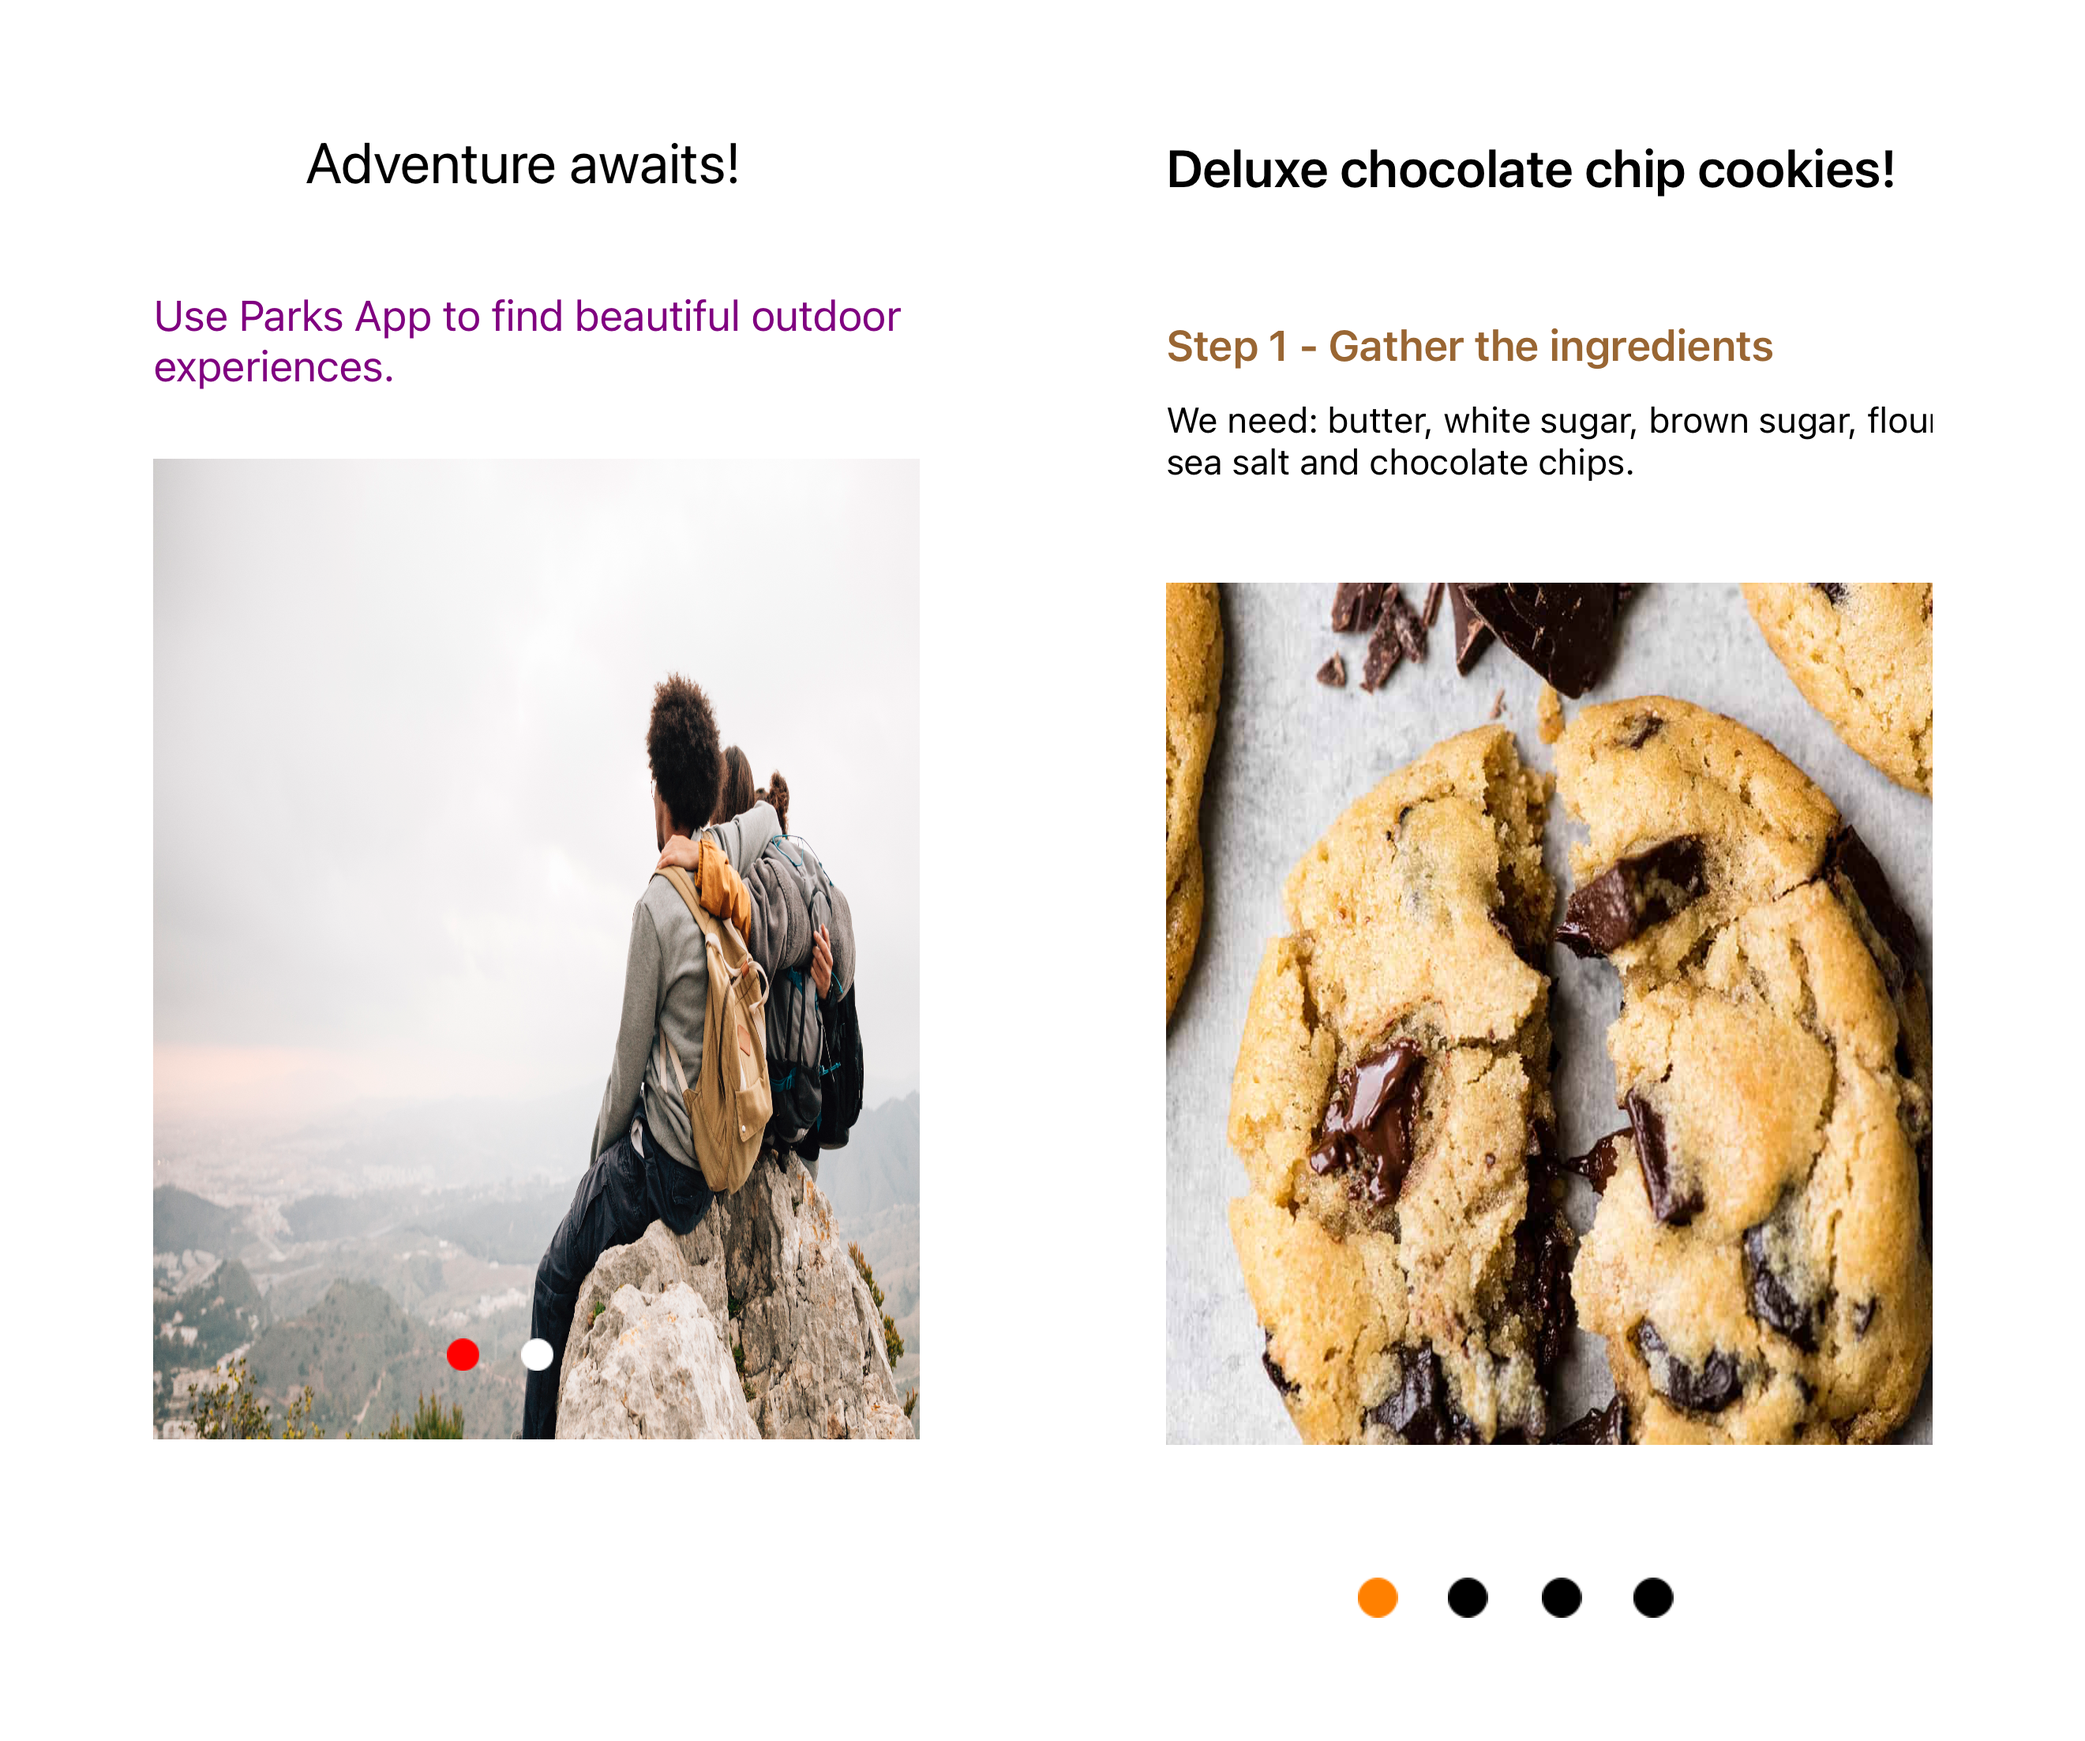
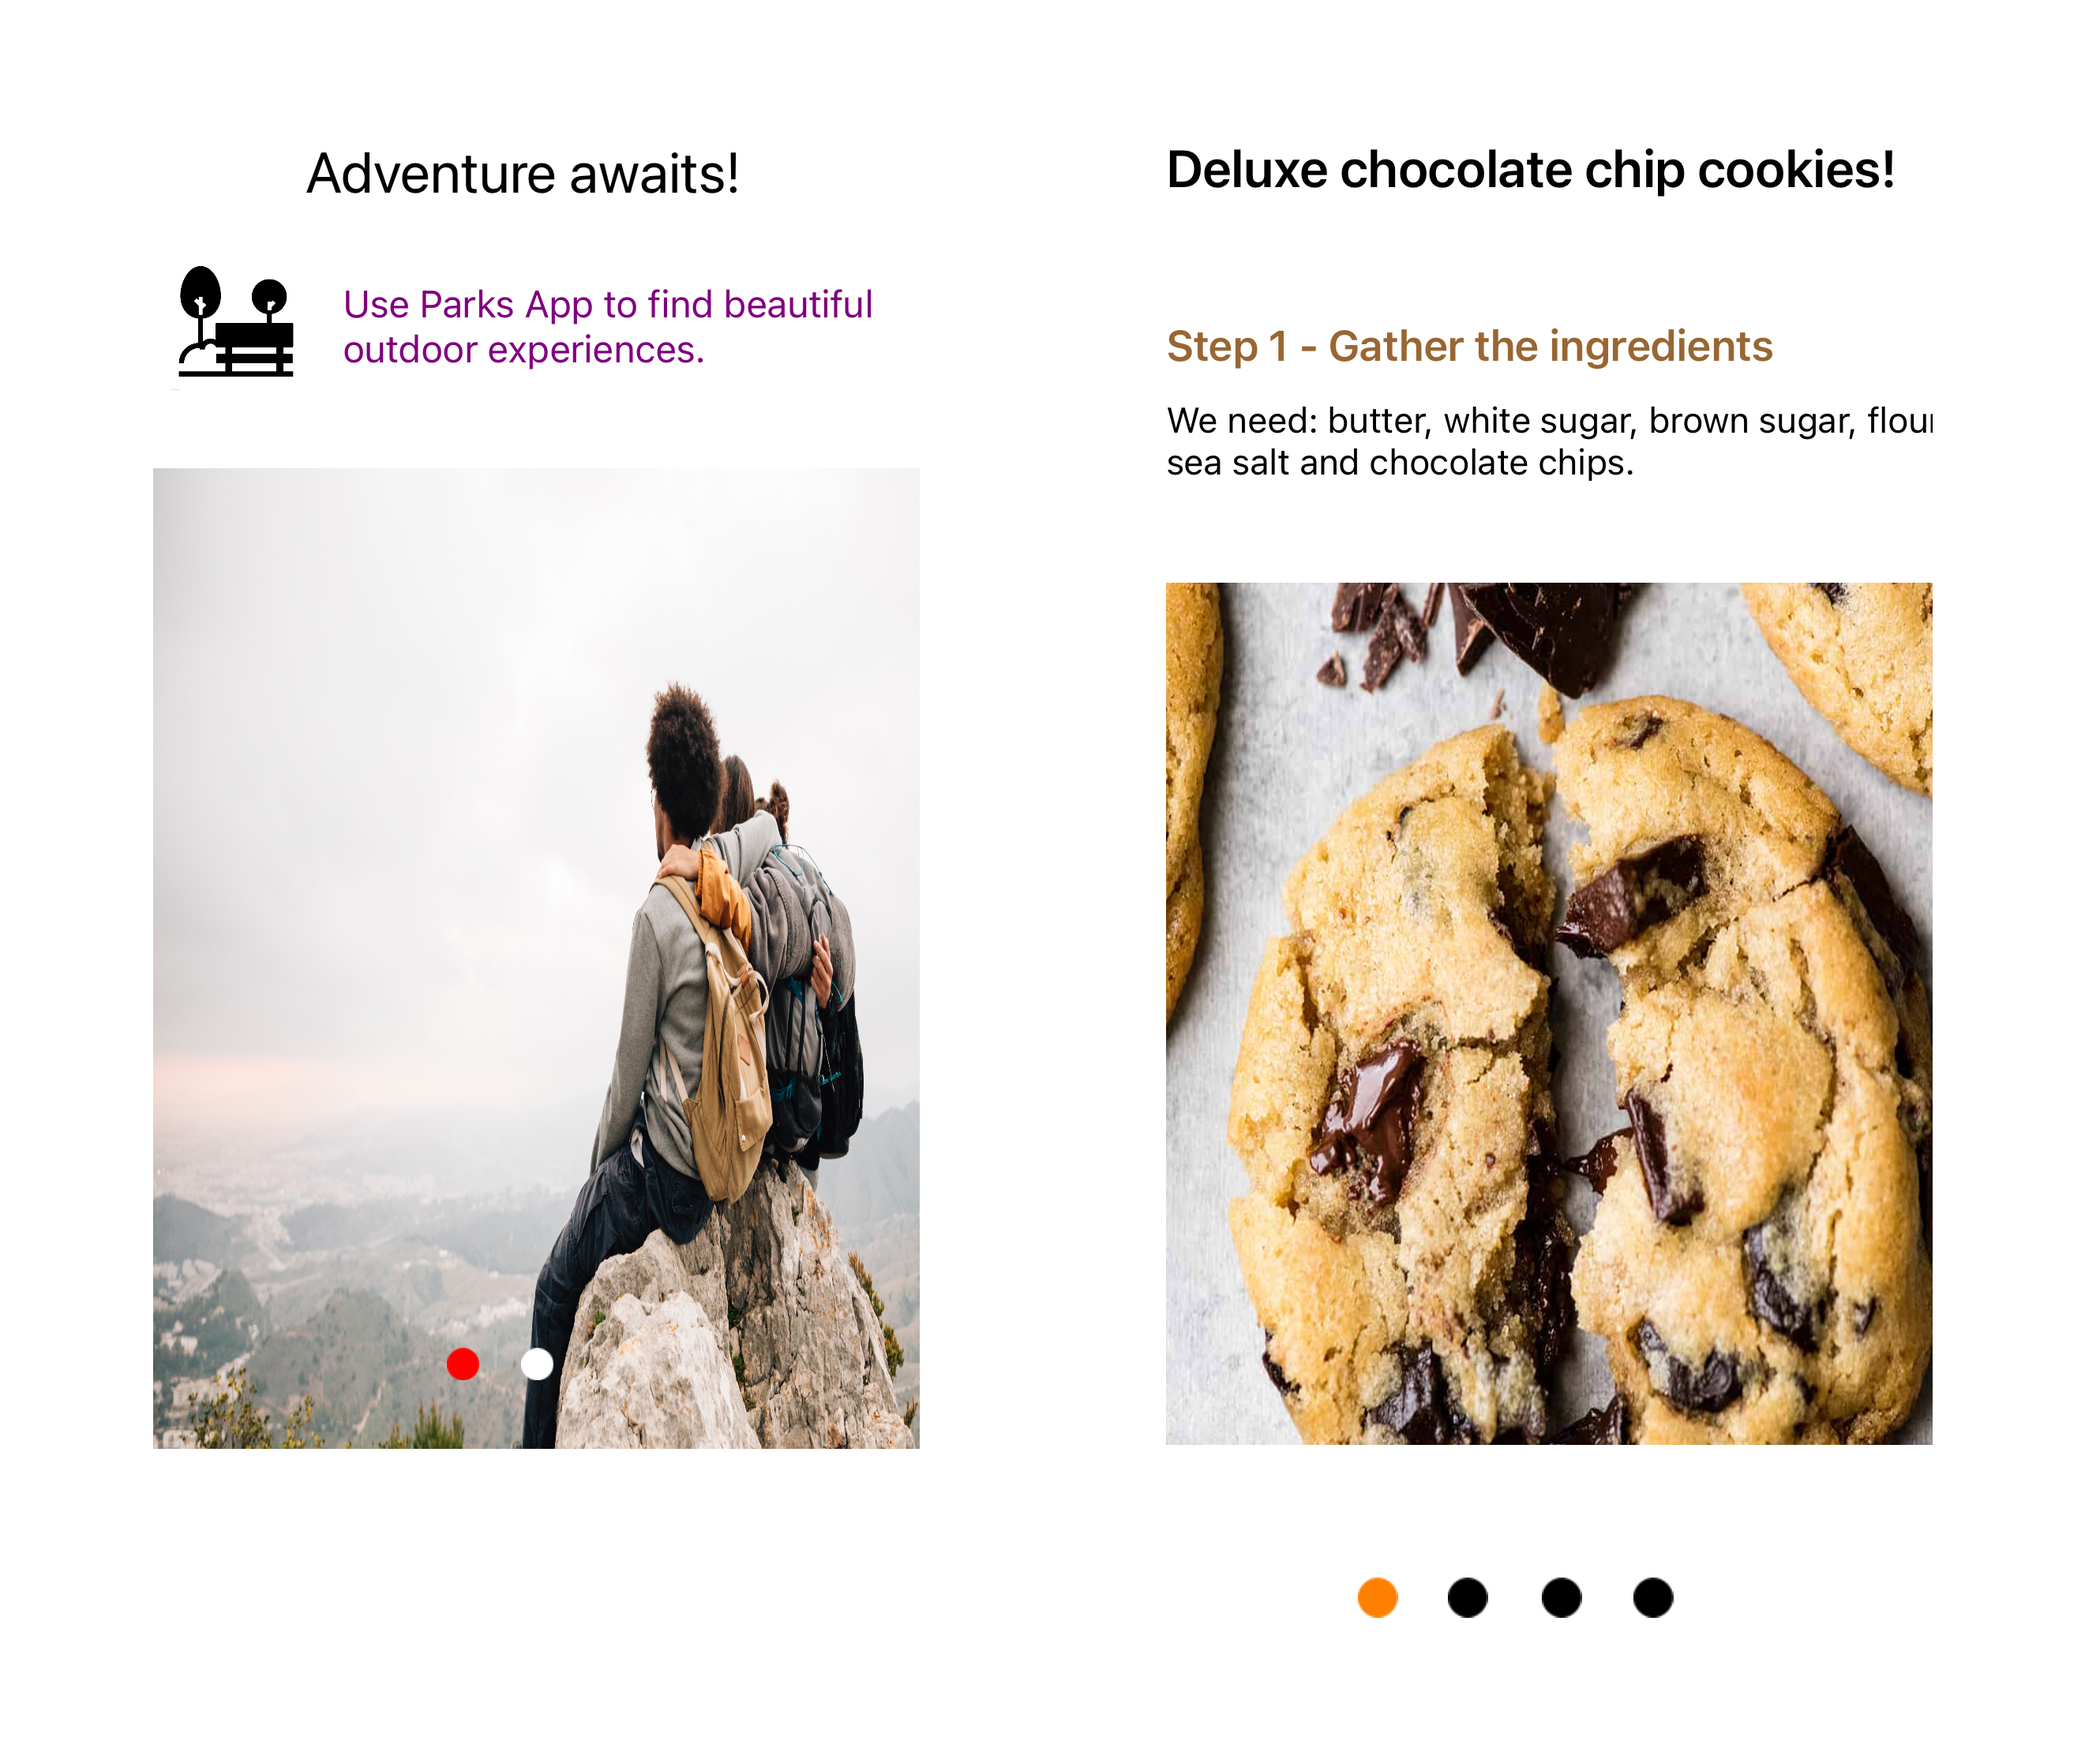
Updated first screenshot

diff --git a/Example/Example/Examples/OnboardingViewController.swift b/Example/Example/Examples/OnboardingViewController.swift
@@ -31,10 +31,13 @@ class OnboardingViewController: UIViewController {
         firstTextLabel.text = "Adventure awaits!"
         firstTextLabel.font = UIFont.systemFont(ofSize: 24)
         
-        let firstSubtitle = UILabel(frame: CGRect(x: 30, y: 80, width: 340, height: 80))
+        let parkIcon = UIImageView(frame: CGRect(x: 30, y: 80, width: 70, height: 70))
+        parkIcon.image = UIImage(named: "park-icon")
+        
+        let firstSubtitle = UILabel(frame: CGRect(x: 110, y: 70, width: 240, height: 80))
         firstSubtitle.numberOfLines = 2
         firstSubtitle.text = "Use Parks App to find beautiful outdoor experiences."
-        firstSubtitle.font = UIFont.systemFont(ofSize: 18)
+        firstSubtitle.font = UIFont.systemFont(ofSize: 16)
         firstSubtitle.textColor = .purple
         
         let firstImageView = UIImageView(frame: CGRect(x: 30, y: 170, width: view.frame.width * 0.9, height: view.frame.height * 0.6))
@@ -42,6 +45,7 @@ class OnboardingViewController: UIViewController {
         
         
         firstPage.addSubview(firstTextLabel)
+        firstPage.addSubview(parkIcon)
         firstPage.addSubview(firstImageView)
         firstPage.addSubview(firstSubtitle)
         
